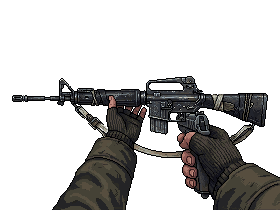
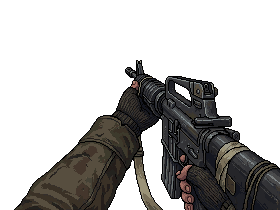
Art: the seven rerolls (30 Oct); the hunting revolver's hands a third time, from behind the hammer
Claude-Session: https://claude.ai/code/session_01V3rcMvf87vtfExpUptqkiv

diff --git a/tools/make_hands29_manifest.py b/tools/make_hands29_manifest.py
@@ -44,10 +44,10 @@ HOLD_29 = {
     # 30 Oct, Matt: came out side-on, not down the barrel - the long barrel foreshortened to a stub, its muzzle toward us
     "Goose gun": "shouldered, its very long barrel pointing straight away from the viewer into the middle of the frame, foreshortened to a short stub with the round muzzle facing us, the stock low in the bottom right corner",
     "Castle guard rifle": "shouldered, the barrel pointing straight away from the viewer into the middle of the frame, foreshortened to a short stub with the muzzle facing us, the stock low in the bottom right corner",
-    "Hunting revolver": "held out forward in both hands at eye level, the long barrel pointing straight away from the viewer, foreshortened so the muzzle sits just above the cylinder and faces us",
+    "Hunting revolver": "held out forward in both hands at eye level, seen from directly behind the hammer, the long barrel pointing straight away from the viewer and hidden behind the cylinder, only the round muzzle showing above it, the scope a short block on top",     # third try (30 Oct): the side-on style image won twice
     "Broomhandle pistol": "held out forward in both hands at eye level, the barrel pointing straight away from the viewer, foreshortened so the muzzle sits just above the box magazine and faces us, the wooden stock tucked low",
 }
-SEED_BUMP_29 = {"Goose gun": 2000, "Castle guard rifle": 2000, "Hunting revolver": 2000, "Broomhandle pistol": 2000}     # the 30 Oct rerolls: a fixed seed rerolls near the same
+SEED_BUMP_29 = {"Goose gun": 2000, "Castle guard rifle": 2000, "Hunting revolver": 6000, "Broomhandle pistol": 2000}     # the 30 Oct rerolls: a fixed seed rerolls near the same
 # their stash pictures show them in a case or holster: the hands hold the weapon alone
 OUT_OF_CASE = {"Ambassador's revolver", "Consular PDW", "Police revolver", "Pocket pistol"}
 OUT_WORDS = " The weapon alone, out of its case or holster: no case, holster or box anywhere."
